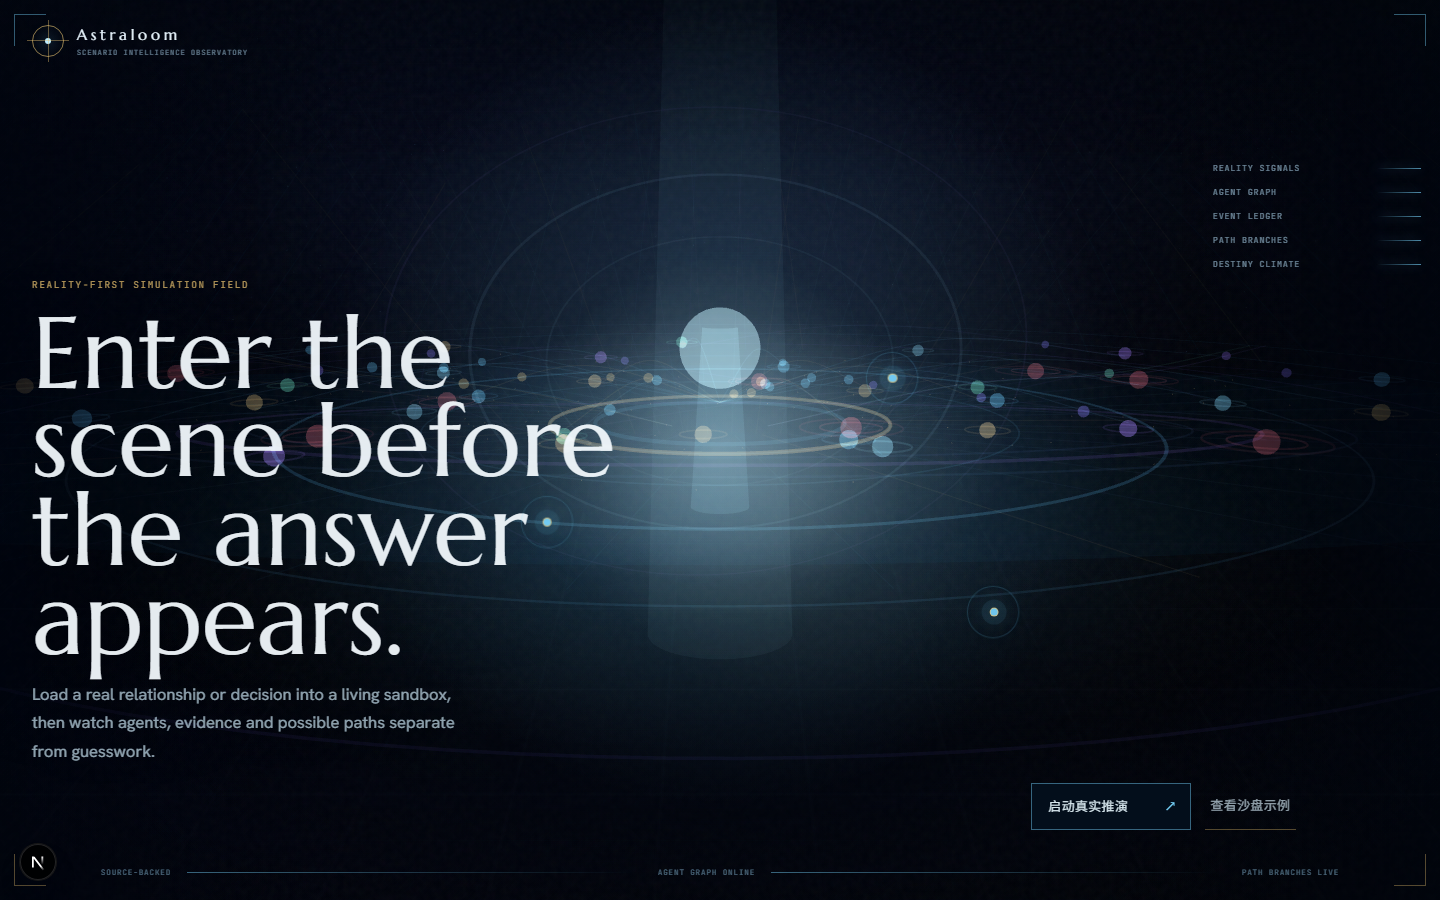
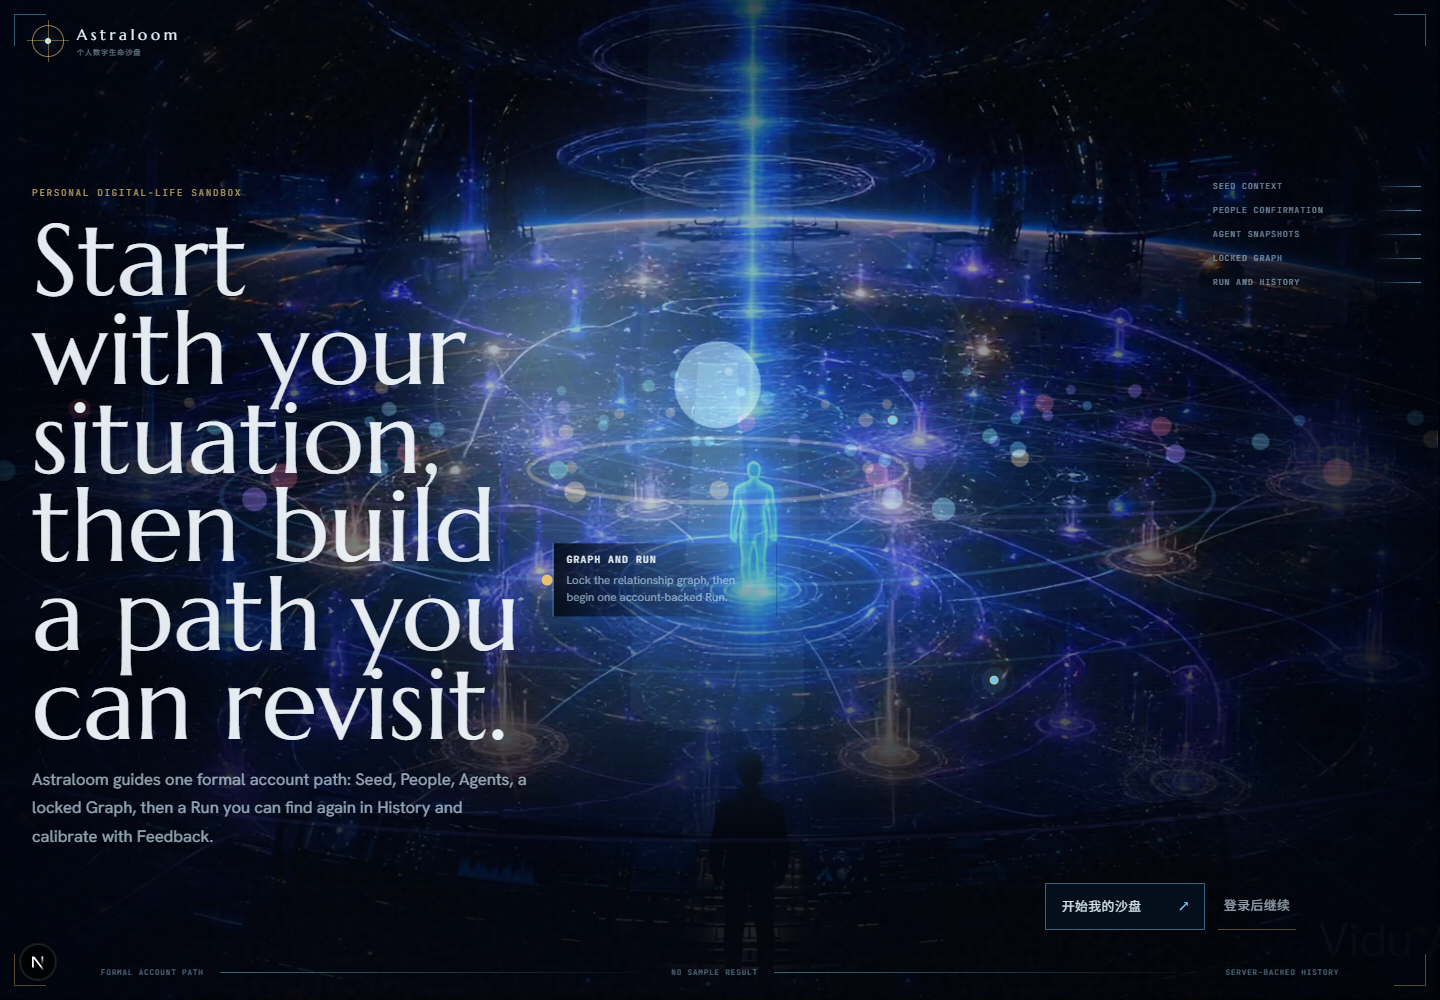
docs: replace previews with current product capture

diff --git a/README.md b/README.md
@@ -4,7 +4,7 @@
 
 ![Astraloom 沉浸式情景智能主页](docs/assets/astraloom-overview.png)
 
-<p align="center"><sub>真实运行界面 · 现实信号、多智能体关系与情景分支进入同一观察场</sub></p>
+<p align="center"><sub>当前正式产品分支实机界面 · Graph and Run 交互状态</sub></p>
 
 ## 项目概览
 
@@ -45,8 +45,6 @@ flowchart LR
 - **完整产品链路**：包含现实信息采集、澄清、人物与关系、运行过程、结果、历史和反馈闭环。
 
 ## 结果层：让结论可以被检查
-
-![Astraloom 情景路径与证据回放](docs/assets/astraloom-product-demo-v1.png)
 
 结果页将不同路径的压力、机会窗口、置信区间和下一观察信号并置，同时保留从现实材料到结论的证据回放。对用户而言，真正有价值的不是一个“答案”，而是知道答案基于什么、哪里仍然未知、下一步应观察什么。
 
